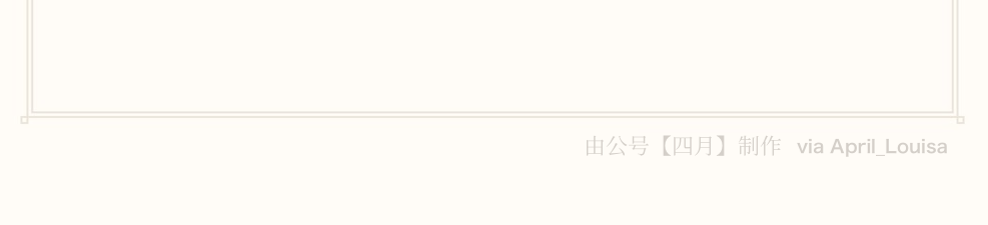
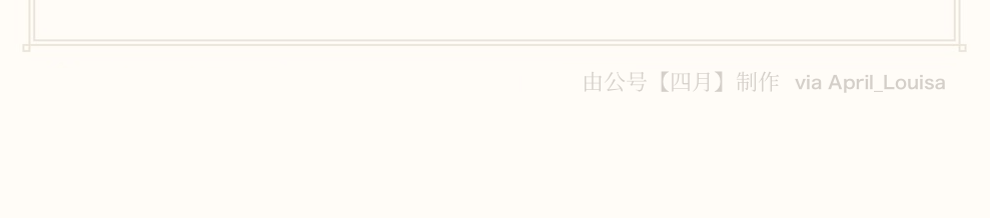
更新背景图

diff --git a/momo/settings.py b/momo/settings.py
@@ -58,8 +58,8 @@ class Config(object):
         path.dirname(__file__), 'note_imgs/note_body.png'))
     NOTE_FOOTER_IMG = path.normpath(path.join(
         path.dirname(__file__), 'note_imgs/note_footer.png'))
-    NOTE_WIDTH = 988
+    NOTE_WIDTH = 990
     NOTE_TEXT_WIDTH = 760
     NOTE_BODY_HEIGHT = 309
     NOTE_HEADER_HEIGHT = 133
-    NOTE_FOOTER_HEIGHT = 225
+    NOTE_FOOTER_HEIGHT = 218
